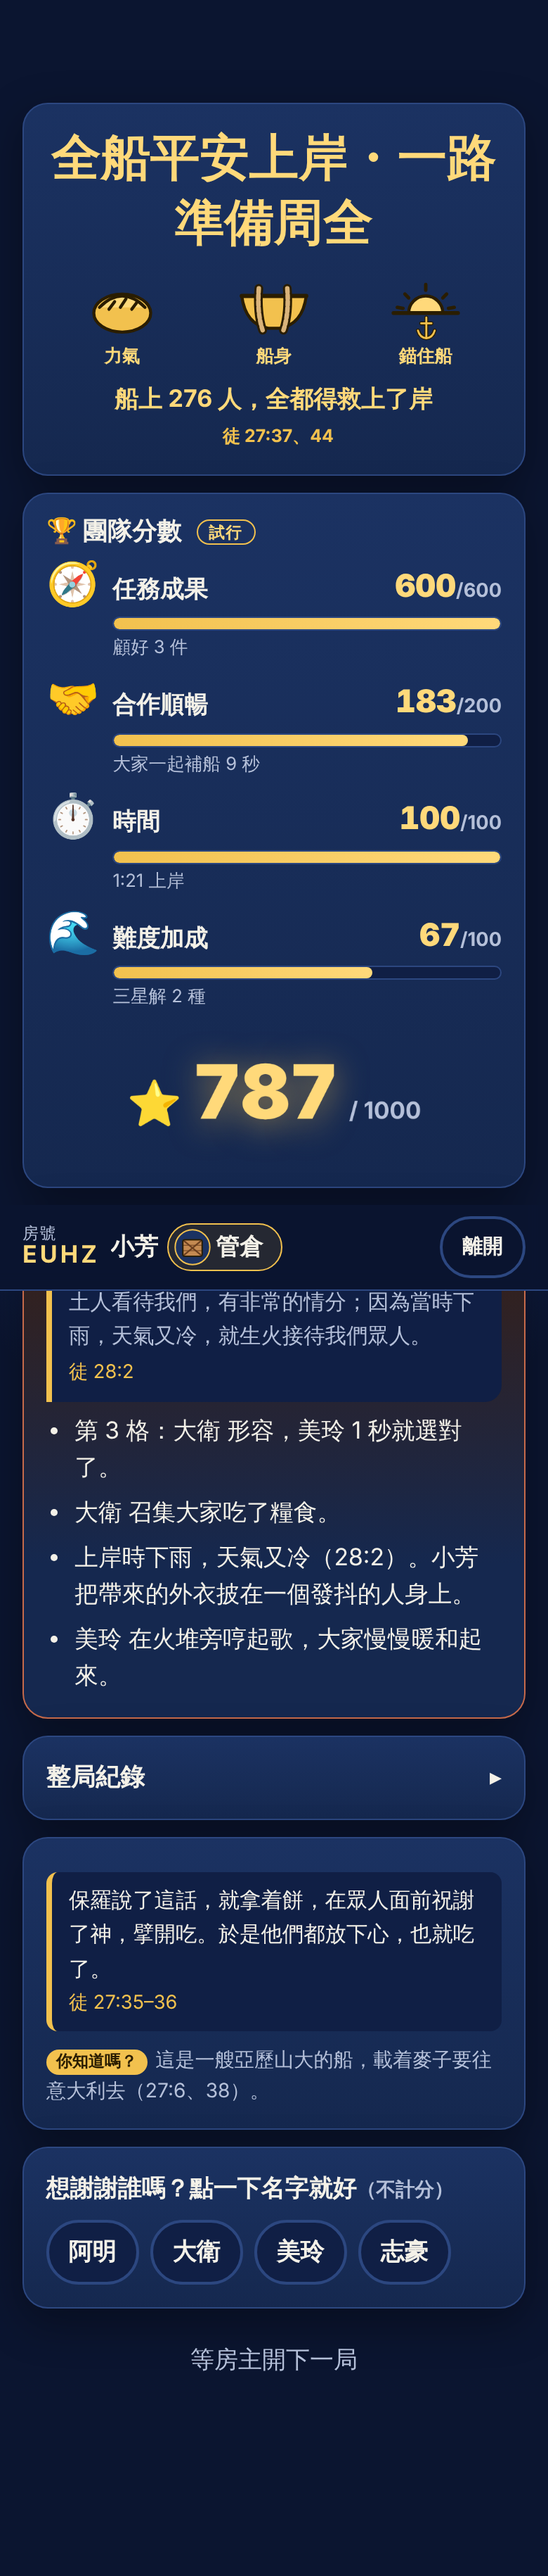
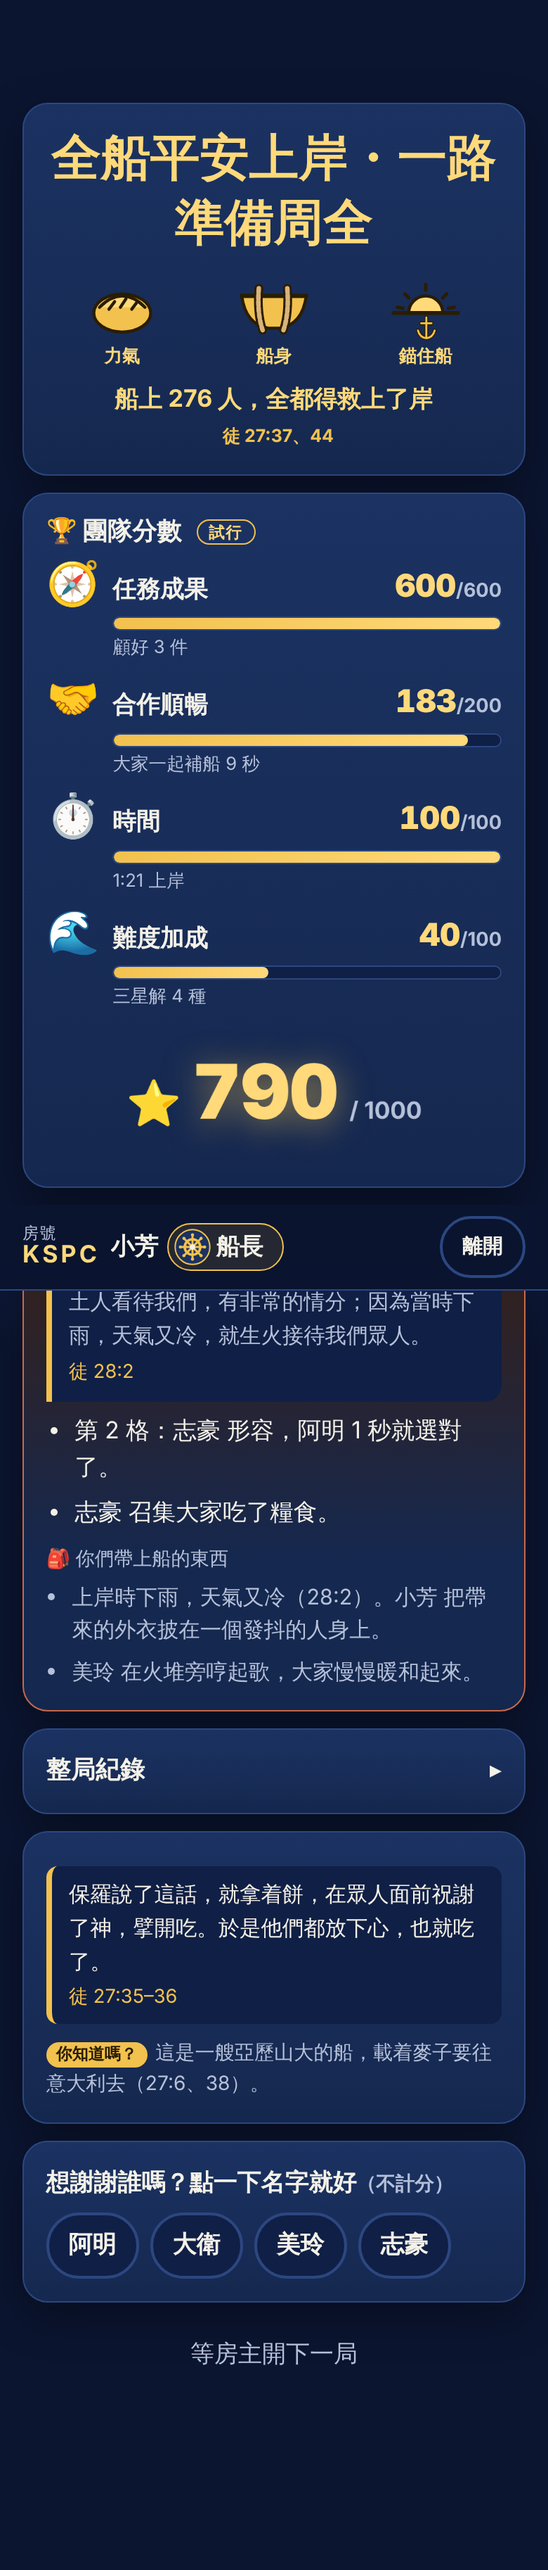
fix: 審查 #32——重新整理不重播章節卡、火堆旁背包小劇場另列、沒能平安上岸不畫火堆、docs/05 等天亮、交接檔不進 repo
Claude-Session: https://claude.ai/code/session_013qafXFhwsVnNc9sXY6pYnT

diff --git a/public/app.js b/public/app.js
@@ -309,7 +309,8 @@ function onPhaseChange(prev, next) {
   ui.justRescued = [];
   if (next === 'blackout') {
     ui.zoom = false;
-    ui.chapter = { kind: ui.view && ui.view.round && ui.view.round.firstRound ? 'dark' : 'dark2', at: Date.now() };
+    // 只有真的從白天換到天黑才播；重新整理一進來就在天黑時不重播（審查 #32 建議 1）
+    if (prev && prev !== 'blackout') ui.chapter = { kind: ui.view && ui.view.round && ui.view.round.firstRound ? 'dark' : 'dark2', at: Date.now() };
   }
   if (next === 'replanning' && prev === 'blackout') ui.chapter = { kind: 'night', at: Date.now() };
   // 衝向海灘：先播上岸動畫，再看結算（結果早已由伺服器決定）
@@ -1189,10 +1190,17 @@ function renderResult(v) {
       return `<button class="chip ${on ? 'on' : ''}" aria-pressed="${on}" data-action="thank" data-to="${esc(p.id)}">${on ? '♥ ' : ''}${esc(p.nickname)}</button>`;
     })
     .join('');
-  const fire = res.fireside && res.fireside.lines.length
-    ? `<section class="card fireside"><h2>🔥 火堆旁：剛才發生的事</h2>
-        <blockquote>${esc(res.fireside.verse.text)}<cite>${esc(res.fireside.verse.ref)}</cite></blockquote>
-        <ul class="fire-lines">${res.fireside.lines.map((l) => `<li>${esc(l)}</li>`).join('')}</ul></section>`
+  // 火堆旁：真的發生的紀錄和「你們帶上船的東西」分開（審查 #32 建議 2）；沒能平安上岸時不畫火堆、不引 28:2，只列剛才的紀錄（建議 3）
+  const fs = res.fireside;
+  const bag = fs && fs.bag && fs.bag.length && res.safe ? `<p class="fire-bag-h">🎒 你們帶上船的東西</p><ul class="fire-lines fire-bag">${fs.bag.map((l) => `<li>${esc(l)}</li>`).join('')}</ul>` : '';
+  const fire = fs && (fs.lines.length || bag)
+    ? res.safe
+      ? `<section class="card fireside"><h2>🔥 火堆旁：剛才發生的事</h2>
+        <blockquote>${esc(fs.verse.text)}<cite>${esc(fs.verse.ref)}</cite></blockquote>
+        ${fs.lines.length ? `<ul class="fire-lines">${fs.lines.map((l) => `<li>${esc(l)}</li>`).join('')}</ul>` : ''}${bag}</section>`
+      : fs.lines.length
+        ? `<section class="card"><h2>剛才發生的事</h2><ul class="fire-lines">${fs.lines.map((l) => `<li>${esc(l)}</li>`).join('')}</ul></section>`
+        : ''
     : '';
   const thanks = res.thanks.length
     ? `<ul class="thanks">${res.thanks.map((t) => `<li>${esc(nickOf(v, t.from))} <span aria-label="謝謝">→</span> ${esc(nickOf(v, t.to))}</li>`).join('')}</ul>`

diff --git a/src/server/room.ts b/src/server/room.ts
@@ -1295,7 +1295,7 @@ export class Room {
       lit: { 力氣: served.includes('力氣'), 船身: served.includes('船身'), 天亮: served.includes('天亮') },
       cause: g.result?.cause ?? 'ended',
       moments: this.moments(),
-      fireside: { verse: { ...FIRESIDE_VERSE }, lines: this.fireside() },
+      fireside: { verse: { ...FIRESIDE_VERSE }, ...this.fireside() },
       bible: BIBLE_THROWS,
       tonightLine: this.tonightLine(),
       verse: g.used?.use === '吃飯' ? { ...ENDING_VERSES.fed } : { ...ENDING_VERSES.shore },
@@ -1348,7 +1348,7 @@ export class Room {
    * 火堆旁（docs/17 v2）：只列 3–4 件剛才真的發生、有名字的事，讓大家自然聊「你剛才到底怎麼形容的？」。
    * 不虛構、不評分、不點名誰做錯；背包的外衣、一首歌在這裡出場。
    */
-  fireside(): string[] {
+  fireside(): { lines: string[]; bag: string[] } {
     const r = this.round!;
     const g = r.game;
     const out: string[] = [];
@@ -1371,11 +1371,13 @@ export class Room {
     }
     const waits = r.voteLog.filter((x) => x.outcome === 'rejected').length;
     if (waits) out.push(`有人喊了 ${waits} 次「等一下」，大家停下來重新商量。`);
+    // 背包物品的出場是遊戲編的小劇場，另外放（審查 #32 建議 2：不和真實紀錄混在一起）
+    const bag: string[] = [];
     for (const item of ['coat', 'song'] as const) {
       const p = this.players.find((x) => r.participants.includes(x.id) && x.pref === item);
-      if (p) out.push(CAMEOS[item].replace('{name}', p.nickname));
+      if (p) bag.push(CAMEOS[item].replace('{name}', p.nickname));
     }
-    return out.slice(0, 4);
+    return { lines: out.slice(0, 3), bag };
   }
 
   /** 這局真的發生的事（系統紀錄＋故事卡＋背包物品出場），有名字。不虛構互助、不評誰最重要。 */

diff --git a/src/server/view.ts b/src/server/view.ts
@@ -212,8 +212,8 @@ export interface View {
     lit: Record<NeedId, boolean>;
     cause: 'depart' | 'time_up' | 'ended';
     moments: MomentView[];
-    /** 火堆旁：3–4 件剛才真的發生的事（有名字）＋徒 28:2。 */
-    fireside: { verse: { text: string; ref: string }; lines: string[] };
+    /** 火堆旁：最多 3 件剛才真的發生的事（有名字）＋徒 28:2；bag＝背包物品的出場（遊戲編的，分開顯示）。 */
+    fireside: { verse: { text: string; ref: string }; lines: string[]; bag: string[] };
     bible: string; // 「經文裡」對照
     tonightLine: string; // 「今晚靠的是……」（不指名誰沒說）
     verse: { text: string; ref: string };

diff --git a/public/style.css b/public/style.css
@@ -1064,3 +1064,6 @@ cite { display: block; margin-top: 4px; font-style: normal; color: var(--gold-2)
 .fold-head { display: flex; width: 100%; align-items: center; justify-content: space-between; background: none; border: 0; color: inherit; padding: 0; cursor: pointer; }
 .fold-head h2 { margin: 0; }
 .thanks-q { margin: 0 0 8px; font-weight: 700; }
+
+.fire-bag-h { margin: 10px 0 4px; font-size: 0.85rem; color: var(--muted); }
+.fire-lines.fire-bag { font-size: 0.95rem; color: var(--muted); }

diff --git a/src/engine/rules.ts b/src/engine/rules.ts
@@ -27,7 +27,7 @@ export type RejectReason =
 
 export const REASON_TEXT: Record<RejectReason, string> = {
   NOT_POWERED: '還在黑暗中',
-  WAIT_DAWN: '還在等天亮',
+  WAIT_DAWN: '還要等天色亮一點',
   OVERWEIGHT: '超重',
 };
 

diff --git a/docs/06-TEST_PLAN.md b/docs/06-TEST_PLAN.md
@@ -11,7 +11,7 @@
 | 首局起風卡延到認識隊友結束才翻（開局不蓋上來） | e2e | 通過 |
 | 主畫面收合：非管倉／船長的全船狀態收成一條、船圖縮到 120px；我的情報只開一張、「還有 N 張」 | 截圖目視；e2e 仍讀得到收起來的元素 | 已實作 |
 | 背包出場：乾果在吃飯動畫、外衣與一首歌在火堆旁、油燈在天黑 | 伺服器測試（`nutsBy`、火堆旁）＋截圖 | 通過 |
-| 火堆旁：3–4 件真的發生、有名字的事＋徒 28:2（verify_verses 核對）；不寫死亡 | 伺服器測試＋`verify_verses.py` | 通過 |
+| 火堆旁：最多 3 件真的發生、有名字的事＋徒 28:2；背包小劇場另列；沒能平安上岸時不畫火堆（verify_verses 核對）；不寫死亡 | 伺服器測試＋`verify_verses.py` | 通過 |
 | 謝謝一行「想謝謝誰嗎？點一下名字就好（不計分）」 | e2e（點謝謝） | 通過 |
 | 第二局角色卡「上一局的伙房是 大衛——卡住可以問他」；首局沒有 | 伺服器測試 | 通過 |
 | `npm test`／typecheck／verify_seeds／verify_verses／e2e 3／6／10 人兩局／e2e:phones／e2e:conn | 指令 | 全部通過 |

diff --git a/GLOSSARY.md b/GLOSSARY.md
@@ -94,7 +94,7 @@ _Avoid_: 點名、教學
 不擋操作、幾秒後自己消失的過場：「天黑了」（首局 3 秒、之後 1 秒）、「第十四天夜裡：天一亮就衝向海灘，在那之前只來得及再做一件」（約 4 秒，播完才翻風暴卡）。首局的起風卡延到認識隊友結束才翻。
 
 **火堆旁**：
-結算畫面最上面的回顧：徒 28:2（下雨又冷、島上的人生火接待）＋3–4 件剛才真的發生、有名字的事（補得最快的一格誰形容誰選對、誰召集吃飯、有人喊等一下、外衣／一首歌）。完整紀錄收在「整局紀錄」。
+結算畫面最上面的回顧：徒 28:2（下雨又冷、島上的人生火接待）＋最多 3 件剛才真的發生、有名字的事（補得最快的一格誰形容誰選對、誰召集吃飯、有人喊等一下）；外衣、一首歌是背包物品的出場（遊戲編的），放在另一個小標「🎒 你們帶上船的東西」。沒能平安上岸時不畫火堆、不引 28:2，只列「剛才發生的事」。完整紀錄收在「整局紀錄」。
 _Avoid_: 船員回憶、輪流分享
 _Avoid_: 下一步、提示
 _Avoid_: 故事時間

diff --git a/docs/05-BIBLE_INTEGRATION.md b/docs/05-BIBLE_INTEGRATION.md
@@ -8,7 +8,7 @@
 **不**考聖經、**不**禱告、**不**講道、**不**要求分享，也不把合作順不順利換算成屬靈程度。
 
 ## 不違背經文
-- 經文裡船上 276 人都得救，所以**沒有任何結局是有人失喪**；零星也是「大家還是都上了岸」。星等只衡量上岸順不順（力氣、船身、等天亮）。
+- 經文裡船上 276 人都得救，所以**沒有任何結局是有人失喪**；零星也是「大家還是都上了岸」。星等只衡量上岸順不順（力氣、船身、錨住船；2026-11-27 前叫「等天亮」）。
 - 玩家只做船員做得到的事（丟東西、補船、吃飯、衝向海灘），**不操作神蹟**、不扮演保羅或天使。天使的話、保羅的勸告只出現在故事卡與劇情文字。
 - 遊戲自創的細節（重量、記號、背包物品、木匠補船）不附章節、不說成史實；引經文的地方一定附章節。
 - 玩家這局的做法可以跟經文不同；結尾把「你們這局」和「經文裡」並列，順便讀到原文（27:18–19、38）。

diff --git a/README.md b/README.md
@@ -16,7 +16,7 @@
 - **找人是雙向的**：被找的人手機上寫「等一下 阿明（醫生）會來找你」。
 - **章節卡**：「天黑了」「第十四天夜裡」幾秒過場（不擋操作）；首局起風卡等認識隊友結束才翻。
 - **主畫面收合**：不是管倉、船長的人，全船狀態收成一條、情報只開一張。
-- **火堆旁**：結算最上面是徒 28:2 和 3–4 件剛才真的發生的事（有名字）；帶的乾果、外衣、一首歌會在故事裡出場；謝謝收成一行。第二局角色卡寫「上一局的伙房是 誰」。
+- **火堆旁**：結算最上面是徒 28:2 和最多 3 件剛才真的發生的事（有名字；背包物品的出場另列）；帶的乾果、外衣、一首歌會在故事裡出場；謝謝收成一行。第二局角色卡寫「上一局的伙房是 誰」。
 
 ## 2026-11-27 安全修正與使用者決定（DECISIONS 20、docs/15；未經真人試玩）
 - 第二局起「認識隊友」縮成 30 秒（首局仍 60 秒）。

diff --git a/DECISIONS.md b/DECISIONS.md
@@ -138,6 +138,7 @@
 3. 主畫面收合：管倉、船長（有主按鈕的人）全船狀態預設展開；其他人收成一條摘要，可以點開。我的情報先開見聞（沒有就第一張線索）。
 4. 火堆旁最多 4 件，順序：補得最快的一格、誰做了出發前那一件、喊等一下的次數、外衣／一首歌；舊的「這局發生的事」收進「整局紀錄」。拿掉結尾「隨口聊聊」題目（v2 不出題）。
 5. 第二局前輩只寫職能相同、而且不是自己的人。
+6. 審查 #32 後：火堆旁的真實紀錄最多 3 件；外衣、一首歌（遊戲編的背包出場）另列小標「🎒 你們帶上船的東西」；沒能平安上岸時不畫火堆、不引 28:2、不列背包，只留「剛才發生的事」（語氣待使用者看真畫面決定）。重新整理進到天黑時不重播章節卡。
 
 ## 待實際測試
 - 開局能否找到三村方案；計畫被打亂是投入還是挫折；seed 002 連玩是否新鮮。
